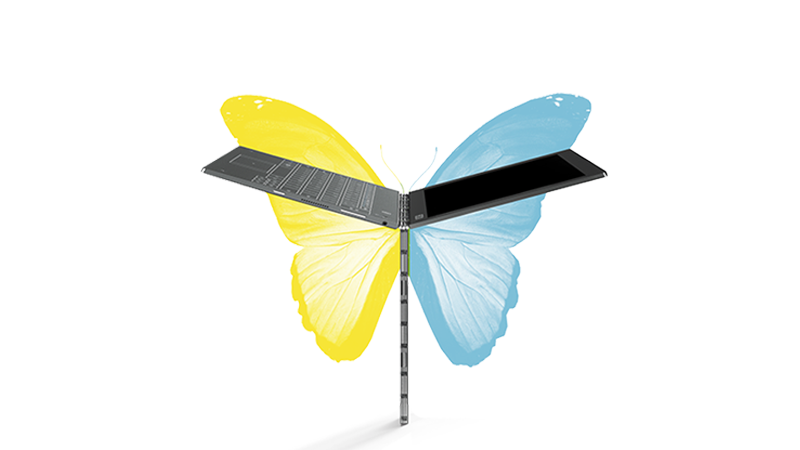
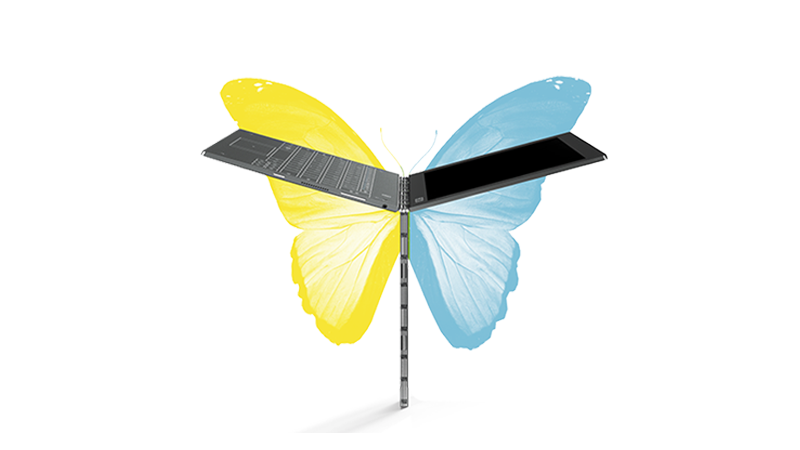
modulo en yoga android creado

Changed region(s): [[0.25, 0.1556, 0.7812, 0.9644]]

diff --git a/output/fichas_premium/yoga_book_android.html b/output/fichas_premium/yoga_book_android.html
@@ -257,51 +257,114 @@
 
 			<!--& MODULE banner &-->
 
-			<div class="mett__module-header-main mett__layout-row mett__justify-start mett__flex-lg-100 mett__flex-md-100 mett__flex-sm-100 mett__flex-xs-100 mett__flex-gt-100 mett__bg-header-gt-yoga-A mett__bg-header-xs-yoga-A mett__bg-header-sm-yoga-A mett__bg-header-md-yoga-A mett__bg-header-lg-yoga-A" >
+			<div class="mett__module-header-main mett__layout-row mett__justify-start mett__flex-lg-100 mett__flex-md-100 mett__flex-sm-100 mett__flex-xs-100 mett__flex-gt-100 mett__bg-header-gt-yoga-A  mett__bg-header-xs-yoga-A mett__bg-header-sm-yoga-A mett__bg-header-md-yoga-A mett__bg-header-lg-yoga-A" >
 
-				<!--cuadro rosado-->
+					<!--cuadro rosado-->
 				
-				
-					<div class="mett__layout-row mett__justify-start mett__flex-lg-30 mett__flex-md-30 mett__flex-md-30 mett__flex-sm-30 mett__flex-xs-30 mett__flex-gt-30 mett__flex-lg-show mett__flex-md-show mett__flex-sm-show mett__flex-xs-hide mett__flex-gt-hide" style=" position: relative;">
+					<div class="mett__layout-row mett__justify-start mett__flex-lg-30 mett__flex-md-30 mett__flex-md-30 mett__flex-sm-30 mett__flex-xs-30 mett__flex-gt-30 mett__flex-lg-show mett__flex-md-show mett__flex-sm-show mett__flex-xs-hide mett__flex-gt-hide" style=" position: relative;" >
 				
 
-						<div class="mett__layout-row mett__justify-start mett__flex-lg-100 mett__flex-md-100 mett__flex-md-100 mett__flex-sm-100 mett__flex-xs-100 mett__flex-gt-100" style="background-color: #eb6209; height: 100%; transform: skew(16deg); position: relative; z-index: 1;">
+						<div class="mett__layout-row mett__justify-start mett__flex-lg-100 mett__flex-md-100 mett__flex-md-100 mett__flex-sm-100 mett__flex-xs-100 mett__flex-gt-100" style="background-color: #00b7d3; height: 100%; transform: skew(16deg); position: relative; z-index: 1;">
 							
 						</div>
 
-						<div class="mett__layout-row mett__justify-start" style="background-color: #eb6209; position: absolute; bottom: 0; left: 0; top:0; width: 70px; "></div>
+						<div class="mett__layout-row mett__justify-start" style="background-color: #00b7d3; position: absolute; bottom: 0; left: 0; top:0; width: 70px; "></div>
 
 						<!--1 texto-imagen- huella-->
 			
-						<div class="mett__layout-row mett__justify-center mett__layout-wrap mett__flex-lg-100 mett__flex-md-100 mett__flex-md-100 mett__flex-sm-100 mett__flex-xs-100 mett__flex-gt-100" style="position: absolute; color:white; z-index: 2;  height: 100%; ">
+						<div class="mett__layout-row mett__justify-center mett__layout-wrap mett__flex-lg-100 mett__flex-md-100 mett__flex-md-90 mett__flex-sm-100 mett__flex-xs-100 mett__flex-gt-100" style="position: absolute; color:white; z-index: 2;  height: 100%; ">
 
-							<div class="mett__layout-row mett__justify-center mett__layout-wrap mett__flex-lg-75 mett__flex-md-75 mett__flex-md-75 mett__flex-sm-75 mett__flex-xs-75 mett__flex-gt-75" style=" margin-top: 35%; height: 70%; margin-right: 30px;">
+							<div class="mett__layout-row mett__justify-center mett__layout-wrap mett__flex-lg-80 mett__flex-md-80 mett__flex-md-80 mett__flex-sm-90 mett__flex-xs-90 mett__flex-gt-90" style=" margin-top: 30%; height: 70%; margin-right: 18px;">
 
 
-								<img class="mett__img" src="img/SOURCES/LOGOS_SVG/phab2.svg" alt="ideapad" style="width:90%; margin-bottom: -10px;" />
+								<img class="mett__img" src="img/YOGABOOK/banner/icon-4.svg" alt="pen" style="width:30%; margin-bottom:-40px;" />
 
-								<div class="mett__flex-lg-80">
-									<img src="img/PHAB2/header_small-2.png" style="width: 100%; margin-bottom: -10px;">
+								<div class="mett__flex-lg-90 mett__flex-md-90 mett__flex-md-90 mett__flex-sm-90 " style="font-size:'Gotham light'; font-size: 11px; text-align: center; margin-top: 0px; ">
+									LIVIANO Y LIGERO.<br><br>SOLO 4.05 mm DE GROSOR Y 690 g DE PESO.
 								</div>
 
+								<div class="mett__flex-lg-90 mett__flex-md-90 mett__flex-md-90 mett__flex-sm-90 ">
+									<img src="img/YOGABOOK/banner/header_small-a.png" style="width: 100%; margin-bottom: -10px;">
+								</div>
+						
 
 
-								<div class="mett__layout-row mett__justify-start mett__align-start mett__flex-lg-100 mett__flex-md-100 mett__flex-md-100 mett__flex-sm-100 mett__flex-xs-100 mett__flex-gt-100" style="margin-top: 10px; height: 50px;">
 
-									<div class="mett__layout-row mett__justify-center mett__flex-lg-30 mett__flex-md-30 mett__flex-md-30 mett__flex-sm-30 mett__flex-xs-30 mett__flex-gt-30 mett__flex-lg-hide" >
+								<div class="mett__layout-row mett__justify-space-between mett__align-center mett__flex-lg-100 mett__flex-md-100 mett__flex-md-100 mett__flex-sm-100 mett__flex-xs-100 mett__flex-gt-100 mett__flex-gt-hide mett__flex-sm-show mett__flex-md-show " style="margin-top: -30px; height:;">
 
-										<img src="img/PHAB2/cam.svg" style="width: 100%;">
-									</div>
+									<!--iconos-->
 
-									<div class="mett__layout-row mett__justify-center mett__flex-lg-50 mett__flex-md-50 mett__flex-sm-50 mett__flex-xs-60 mett__flex-gt-70 mett__flex-lg-hide" style="font-family: 'Gotham light'; font-size: 11px; margin-left: 10px;">
+								
+										<!--2-->
 
-										<div>CÁMARAS DE NIVEL PROFESIONAL</div>
+										<div class=" mett__layout-row mett__layout-wrap mett__justify-center mett__flex-lg-20 mett__flex-md-20 mett__flex-sm-20 mett__flex-xs-20 mett__flex-gt-100 marginall" style="margin-left: 10px;">
 
-									</div>
+											<div class=" mett__layout-row mett__justify-center mett__flex-lg-100 mett__flex-md-100 mett__flex-sm-100 mett__flex-xs-100 mett__flex-gt-100 tamañoicons" >
+												<img src="img/YOGABOOK/icon-7.svg" style="width: 100%;">
+											</div>
+
+											
+											<div class=" mett__layout-row mett__justify-center mett__flex-lg-50 mett__flex-md-50 mett__flex-sm-50 mett__flex-xs-100 mett__flex-gt-100 lettericons02" style="font-size: 11px;font-family: 'gotham-light';">
+											Mira
+											</div>
+											
+										</div>
+
+										<!--3-->
+
+										<div class=" mett__layout-row mett__justify-center mett__layout-wrap mett__flex-lg-20 mett__flex-md-20 mett__flex-sm-20 mett__flex-xs-20 mett__flex-gt-100 marginall"  >
+
+											<div class=" mett__layout-row mett__justify-center mett__flex-lg-100 mett__flex-md-100 mett__flex-sm-100 mett__flex-xs-100 mett__flex-gt-100 tamañoicons" >
+												<img src="img/YOGABOOK/icon-8.svg" style="width: 100%;">
+											</div>
+
+											
+											<div class=" mett__layout-row mett__justify-center mett__flex-lg-50 mett__flex-md-50 mett__flex-sm-50 mett__flex-xs-50 mett__flex-gt-50 lettericons02 " style="font-size: 11px;font-family: 'gotham-light';">
+												
+												Escribe
+
+											</div>
+										
+										</div>
+
+										<!--4-->
+
+										<div class=" mett__layout-row mett__layout-wrap mett__justify-center mett__flex-lg-20 mett__flex-md-20 mett__flex-sm-20 mett__flex-xs-20 mett__flex-gt-100 marginall"  >
+
+											<div class=" mett__layout-row mett__justify-center mett__flex-lg-100 mett__flex-md-100 mett__flex-sm-100 mett__flex-xs-100 mett__flex-gt-100 tamañoicons" >
+												<img src="img/YOGABOOK/icon-9.svg" style="width: 100%;">
+											</div>
+
+											
+											<div class=" mett__layout-row mett__justify-center mett__flex-lg-50 mett__flex-md-50 mett__flex-sm-50 mett__flex-xs-50 mett__flex-gt-50 lettericons02  " style="font-size: 11px;font-family: 'gotham-light';">
+											Navega
+											</div>
+										
+										</div>
+
+										<!--5-->
+
+										<div class=" mett__layout-row mett__layout-wrap mett__justify-center mett__flex-lg-20 mett__flex-md-20 mett__flex-sm-20 mett__flex-xs-20 mett__flex-gt-100 marginall" >
+
+											<div class=" mett__layout-row mett__justify-center mett__flex-lg-100 mett__flex-md-100 mett__flex-sm-100 mett__flex-xs-100 mett__flex-gt-100 tamañoicons" >
+												<img src="img/YOGABOOK/icon-6.svg" style="width: 100%;">
+											</div>
+
+											
+											<div class="mett__layout-row mett__justify-center mett__flex-lg-50 mett__flex-md-50 mett__flex-sm-50 mett__flex-xs-50 mett__flex-gt-50 lettericons02  " style="font-size: 11px;font-family: 'gotham-light';">
+											Crea
+											</div>
+										
+										</div>
+
+
 
 								</div>
+
 							</div>
+
 						</div>
+								
 					</div>
 					
 					<!--titulo-->
@@ -315,11 +378,11 @@
 						<div  class="mett__layout-row mett__justify-center mett__layout-wrap mett__flex-lg-100 mett__flex-md-100 mett__flex-md-100 mett__flex-sm-100 mett__flex-xs-100 mett__flex-gt-100 " style="height: 20%; ">
 
 
-								<div class="mett__layout-row mett__justify-start mett__align-end mett__flex-lg-80 mett__flex-md-80 mett__flex-md-80 mett__flex-sm-80 mett__flex-xs-100 mett__flex-gt-100" style="font-family: 'Gotham light';font-size: 60px; letter-spacing: -2px; color: #474748; margin-top: 20px; margin-left: 73px;">
+								<div class="mett__layout-row mett__justify-start mett__align-end mett__flex-lg-80 mett__flex-md-80 mett__flex-md-80 mett__flex-sm-80 mett__flex-xs-100 mett__flex-gt-100" style="font-family: 'Gotham bold';font-size: 42px; letter-spacing: -2px; color: #474748; margin-top: 20px; margin-left: 136px; ">
 									TE DESAFÍO
 								</div>
 
-								<div class="mett__layout-row mett__justify-start mett__align-start mett__flex-lg-80 mett__flex-md-80 mett__flex-md-80 mett__flex-sm-80 mett__flex-xs-80 mett__flex-gt-80" style="font-family: 'Gotham bold'; font-size: 18px; margin-top: -9px; letter-spacing: -1px; color: #474748; margin-left: 146px;">
+								<div class="mett__layout-row mett__justify-start mett__align-start mett__flex-lg-80 mett__flex-md-80 mett__flex-md-80 mett__flex-sm-80 mett__flex-xs-80 mett__flex-gt-80" style="font-family: 'Gotham book'; font-size: 18px; margin-top: -9px; letter-spacing: -1px; color: #474748; margin-left: 165px; ">
 									 A llevar más en menos.
 								</div>
 
@@ -336,17 +399,35 @@
 
 						
 
-						<!--parrafo inferior
+						<!--parrafo inferior-->
 
-						<div class="mett__layout-row mett__justify-end mett__layout-wrap mett__flex-lg-100 mett__flex-md-100 mett__flex-md-100 mett__flex-sm-100 mett__flex-xs-100 mett__flex-gt-100" style=" height: 10%; font-family:'Gotham light';font-size: 15px; color:#ffffff; margin-top:35%;">
+						<div class="mett__layout-row mett__justify-end mett__align-start mett__layout-wrap mett__flex-lg-100 mett__flex-md-100 mett__flex-md-100 mett__flex-sm-100 mett__flex-xs-100 mett__flex-gt-100" style=" height: 10%; font-family:'Gotham light';font-size: 15px; color:red; margin-top:30%;">
 
-							<div class="mett__layout-row mett__justify-end mett__flex-lg-40 mett__flex-md-40 mett__flex-md-40 mett__flex-sm-40 mett__flex-xs-40 mett__flex-gt-40">
+							<div class=" mett__layout-row mett__justify-end mett__layout-wrap mett__align-start mett__flex-lg-100 mett__flex-md-100 mett__flex-md-100 mett__flex-sm-100 mett__flex-xs-100 mett__flex-gt-100">
 
-								Lenovo Phab 2 Plus, añade seguridad adicional gracias a su sensor de huellas.
+								<div class=" mett__layout-row mett__justify-center mett__flex-lg-25 mett__flex-md-25 mett__flex-md-25 mett__flex-sm-25 mett__flex-xs-25 mett__flex-gt-25" style="margin-right: 20px;">
+
+									<img src="img/SOURCES/LOGOS_SVG/yoga-book-android-grey.svg" style="width: 100%;">
+
+									
+								</div >
+
+							</div>
+
+							<div class=" mett__layout-row mett__justify-end mett__layout-wrap mett__align-start mett__flex-lg-100 mett__flex-md-100 mett__flex-md-100 mett__flex-sm-100 mett__flex-xs-100 mett__flex-gt-100">
+
+								<div  class=" mett__layout-row mett__justify-center mett__flex-lg-30 mett__flex-md-30 mett__flex-md-30 mett__flex-sm-30 mett__flex-xs-30 mett__flex-gt-30" style="font-size: 20px; font-family: 'Gotham bold'; text-transform: uppercase; color:#474748;">
+										Menos es más.
+								</div>
+							</div>
+
+							<div class="mett__layout-row mett__justify-center mett__flex-lg-85 mett__flex-md-85 mett__flex-md-85 mett__flex-sm-85 mett__flex-xs-85 mett__flex-gt-85 mett__text-subtext" style="text-align: right; color: #474748; margin-top: 20px; font-family: 'Gotham bold'; margin-right: 20px; font-size: 10px; ">
+
+								Intel, el logotipo de Intel, Intel Inside, el logotipo Intel Inside, Intel Atom y Intel Atom Inside son marcas comerciales de Intel Corporation en los EE. UU. y/o en otros países. 
 
 							</div>
 							
-						</div>-->
+						</div>
 
 						
 					</div>
@@ -365,16 +446,16 @@
 							<div class="mett__flex-gt-50 mett__flex-xs-50 mett__align-center mett__justify-center" style="margin-top: 20px;margin-bottom: 5px; text-align: center;">
 								
 
-									<img class="mett__img" src="img/SOURCES/LOGOS_SVG/phab2.svg" alt="ideapad" style="width:90%;"/>
+									<img class="mett__img" src="img/SOURCES/LOGOS_SVG/yoga-book-android-grey.svg" alt="yoga" style="width:90%;"/>
 								
 							</div>
 
 
-								<div class="mett__layout-row mett__justify-center mett__align-end mett__flex-lg-80 mett__flex-md-80 mett__flex-md-80 mett__flex-sm-80 mett__flex-xs-100 mett__flex-gt-70" style="font-family: 'Gotham light';font-size: 50px; letter-spacing: -3px; color: #474748; margin-left: ; text-align: center;">
+								<div class="mett__layout-row mett__justify-center mett__align-end mett__flex-lg-80 mett__flex-md-80 mett__flex-md-80 mett__flex-sm-80 mett__flex-xs-100 mett__flex-gt-70" style="font-family: 'Gotham bold';font-size: 50px; letter-spacing: -3px; color: #474748; margin-left: ; text-align: center;">
 									TE DESAFÍO
 								</div>
 
-								<div class="mett__layout-row mett__justify-center mett__align-start mett__flex-lg-80 mett__flex-md-80 mett__flex-md-80 mett__flex-sm-80 mett__flex-xs-100 mett__flex-gt-90" style="font-family: 'Gotham bold'; font-size: 17px; margin-top: -5px; letter-spacing: -1px; color: #474748; margin-left: ; text-align: center;">
+								<div class="mett__layout-row mett__justify-center mett__align-start mett__flex-lg-80 mett__flex-md-80 mett__flex-md-80 mett__flex-sm-80 mett__flex-xs-100 mett__flex-gt-90" style="font-family: 'Gotham book'; font-size: 17px; margin-top: -5px; letter-spacing: -1px; color: #474748; margin-left: ; text-align: center;">
 									 A llevar más en menos.
 								</div>
 
@@ -391,10 +472,10 @@
 
 						<!-- Product Image -->
 
-						<div class="mett__flex-lg-hide mett__flex-md-hide mett__flex-sm-hide mett__flex-xs-show mett__flex-gt-show mett__flex-gt-50 mett__flex-xs-60" style="margin-top: 70px;">
+						<div class="mett__flex-lg-hide mett__flex-md-hide mett__flex-sm-hide mett__flex-xs-show mett__flex-gt-show mett__flex-gt-70 mett__flex-xs-90" style="margin-top: 20px;">
 							<div>
 								
-								<img class="mett__img" src="img/PHAB2/header_small-2.png" alt="producto header" style="width: 100%;">
+								<img class="mett__img" src="img/YOGABOOK/banner/header_small-a.png" alt="producto" style="width: 100%;">
 								
 							</div>
 							
@@ -406,25 +487,28 @@
 						<!--parrafo inferior-->
 
 						<div class="mett__layout-row mett__justify-space-between mett__layout-wrap mett__flex-lg-100 mett__flex-md-100 mett__flex-md-100 mett__flex-sm-100 mett__flex-xs-100 mett__flex-gt-90" style="  font-family:'Gotham light';font-size: 15px; color:white; margin-top:0;height: 10%;">
+
 							<div class=" mett__layout-row mett__justify-center mett__flex-xs-30 mett__flex-gt-20">
 
 								<div class="mett__layout-row mett__justify-center mett__flex-sm-50 mett__flex-xs-50 mett__flex-gt-50" >
 
-									<img src="img/PHAB2/cam.svg" style="width: 100%;">
+									<img src="img/YOGABOOK/banner/icon-2.svg" style="width: 100%;">
 								</div>
 
 								<div class="mett__layout-row mett__justify-start mett__flex-lg-70 mett__flex-md-70 mett__flex-md-70 mett__flex-sm-70 mett__flex-xs-10 mett__flex-gt-10" style="font-family: 'Gotham light'; font-size: 11px; margin-left: 5px;">
 
-									<div>CÁMARAS DE NIVEL PROFESIONAL</div>
+									<div>LIVIANO Y LIGERO.</div>
 
 								</div>
 							</div>
 
-								<div class="mett__layout-row mett__justify-end mett__flex-lg-40 mett__flex-md-40 mett__flex-md-40 mett__flex-sm-40 mett__flex-xs-55 mett__flex-gt-55">
+							<div class="mett__layout-row mett__justify-end mett__align-center mett__flex-lg-40 mett__flex-md-40 mett__flex-md-40 mett__flex-sm-40 mett__flex-xs-55 mett__flex-gt-55">
 
-									Lenovo Phab 2, con cámara de 13 megapixeles.
+								MENOS ES MÁS.
 
-								</div>
+							</div>
+
+							
 							
 							
 						</div>
@@ -743,7 +827,7 @@
 
 			<!--& MODULE BACKGROUND IMAGE INFORMACIÓN &-->
 
-			<div class="mett__module-bg-info mett__layout-row mett__layout-wrap mett__justify-center mett__flex-lg-100 mett__flex-md-100 mett__flex-sm-100 mett__flex-xs-100 mett__flex-gt-100" style="background:url('img/YOGABOOK/background_2.png');background-position:0em 0em; background-size:cover; background-repeat:no-repeat;">
+			<div class="mett__module-bg-info mett__layout-row mett__layout-wrap mett__justify-center mett__flex-lg-100 mett__flex-md-100 mett__flex-sm-100 mett__flex-xs-100 mett__flex-gt-100" style="background:url('img/YOGABOOK/windows/background_2.png');background-position:0em 0em; background-size:cover; background-repeat:no-repeat;">
 				
 				<div class="mett__flex-lg-5 mett__flex-md-5 mett__flex-md-5 mett__flex-sm-5 mett__flex-xs-5 mett__flex-gt-5"></div>
 
@@ -825,7 +909,7 @@
 							
 							<div class="mett__flex-lg-60 mett__flex-md-60 mett__flex-sm-60 mett__flex-xs-100 mett__flex-gt-100" style="min-height:150px;">
 								
-								<img class="mett__img" src="img/YOGABOOK/modulo_4.png" style="width: 100%; margin-right: -2em" alt="image closeup">
+								<img class="mett__img" src="img/YOGABOOK/windows/modulo_4.png" style="width: 100%; margin-right: -2em" alt="image closeup">
 
 							</div>
 							
@@ -999,6 +1083,10 @@
 								
 								<img class="mett__img" src="img/YOGABOOK/modulo_5.1.png" style="width: 100%;" alt="image closeup">
 
+							</div>
+
+							<div class="mett__layout-row mett__justify-end mett__flex-lg-100 mett__flex-md-100 mett__flex-sm-100 mett__flex-xs-100 mett__flex-gt-100">
+								<p class="mett__p">imagen de referencia. Disponible en color negro</p>
 							</div>
 							
 
@@ -1314,7 +1402,7 @@
 							
 							<div class="mett__flex-lg-50 mett__flex-md-50 mett__flex-sm-50 mett__flex-xs-100 mett__flex-gt-100" style="min-height:150px;">
 								
-								<img class="mett__img" src="img/YOGABOOK/modulo_7.png" style="width: 100%;" alt="image closeup">
+								<img class="mett__img" src="img/YOGABOOK/windows/modulo_7.png" style="width: 100%;" alt="image closeup">
 
 							</div>
 
@@ -1439,7 +1527,7 @@
 							
 							<div class="mett__flex-lg-45 mett__flex-md-45 mett__flex-sm-45 mett__flex-xs-100 mett__flex-gt-100" style="min-height:160px; max-width: 100%;">
 								
-								<img class="mett__img" src="img/YOGABOOK/modulo_13.png" style="width: 100%;" alt="image closeup">
+								<img class="mett__img" src="img/YOGABOOK/windows/modulo_13.1.png" style="width: 100%;" alt="image closeup">
 
 							</div>
 

diff --git a/output/fichas_premium/css/styles-yoga-book-android.css b/output/fichas_premium/css/styles-yoga-book-android.css
@@ -14,16 +14,16 @@
 	}
 	@media (min-width:768px){
 		.mett__bg-header-sm-yoga-A{
-		background: url(../img/YOGABOOK/banner/background_yoga-android.png); background-size:cover;margin-left: 0.5em;
+		background: url(../img/YOGABOOK/banner/background_yoga-android.png); background-size:cover;
 		}
 	}
 	@media (min-width:992px){
 		.mett__bg-header-md-yoga-A{
-		background: url(../img/YOGABOOK/banner/background_yoga-android.png); background-size:cover;margin-left: 0.5em;
+		background: url(../img/YOGABOOK/banner/background_yoga-android.png); background-size:cover;
 		}
 	}
 	@media (min-width:1200px){
 		.mett__bg-header-lg-yoga-A{
-		background: url(../img/YOGABOOK/banner/background_yoga-android.png); background-size:cover;margin-left: 0.5em;
+		background: url(../img/YOGABOOK/banner/background_yoga-android.png); background-size:cover;
 		}
 	}

diff --git a/output/fichas_premium/yoga_book_windows.html b/output/fichas_premium/yoga_book_windows.html
@@ -419,7 +419,7 @@
 								</div>
 							</div>
 
-							<div class="mett__layout-row mett__justify-center mett__flex-lg-85 mett__flex-md-85 mett__flex-md-85 mett__flex-sm-85 mett__flex-xs-85 mett__flex-gt-85 mett__text-subtext" style="text-align: right; color: #474748; margin-top: 45px; font-family: 'Gotham bold'; margin-right: 20px; ">
+							<div class="mett__layout-row mett__justify-center mett__flex-lg-85 mett__flex-md-85 mett__flex-md-85 mett__flex-sm-85 mett__flex-xs-85 mett__flex-gt-85 mett__text-subtext" style="text-align: right; color: #474748; margin-top: 40px; font-family: 'Gotham bold'; margin-right: 20px; ">
 
 								Intel, el logotipo de Intel, Intel Inside, el logotipo Intel Inside, Intel Atom y Intel Atom Inside son marcas comerciales de Intel Corporation en los EE. UU. y/o en otros países. 
 

diff --git a/output/fichas_premium/css/visual-skin/theme-yoga-blue.less b/output/fichas_premium/css/visual-skin/theme-yoga-blue.less
@@ -47,7 +47,7 @@
 
 	h2.mett__h2{font-size: 18px; color: @color-primario; font-family: @gotham-bold; letter-spacing: 2px;}
 
-	p.mett__text-subtext{font-size: 16px;font-family: @gotham-light;}
+	.mett__text-subtext{font-size: 10px;font-family: @gotham-light;}
 
 	p.mett__p{font-family: @gotham-light; line-height: 20px; font-size: 15px;}
 
